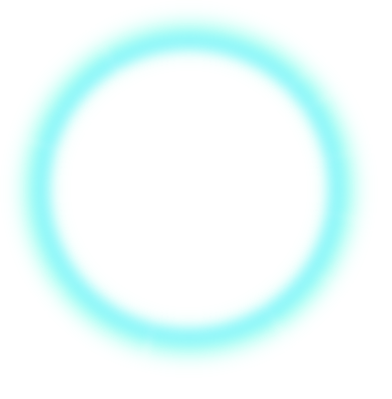
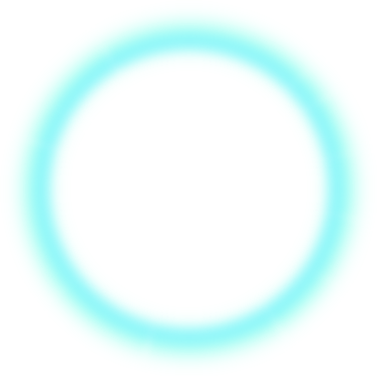
home屏幕宽度

Changed region(s): [[0.0875, 0.1755, 0.9629, 0.9654], [0.1167, 0.117, 0.4668, 0.4388]]

diff --git a/app/home.html b/app/home.html
@@ -61,9 +61,9 @@
   <div style="width:100%; height:100%; background:url(images/beijing.png) no-repeat; background-size:100% 100% ;">
     <img src="images/yangguang.png" style="position:absolute; top:60px; right:0;">
 
-    <div style="width:320px; height:60%; margin:0 auto; position:relative; ">
+    <div style=" height:60%; margin:0 auto; position:relative; top:12% " class="warn1">
       <!--<img src="images/daguang.png" style="position:absolute; top: -34px; width: 387px; left: -35px;" alt="">-->
-      <canvas id="myCanvas" style="background:url(images/guang.png) no-repeat; background-size:290px; background-position: 20px 20px; margin-top:20%" width="320" height="320"></canvas>
+      <canvas id="myCanvas" style="background:url(images/guang.png) no-repeat; /*background-color: rgba(0,0,0,.3);*/ background-size:290px; background-position: center; " ></canvas>
 
       <div style="width:120px; height:60px; overflow: hidden; position:relative;top:-220px; left:100px;" id="abc">
       </div>
@@ -92,11 +92,24 @@
 
 
 <script>
+  var daWidth=screen.width;
+  $('.warn1').width(daWidth);
+  $('#myCanvas').attr('width',daWidth);
+  $('#myCanvas').attr('height',daWidth);
+  var width_2=daWidth/2;
+  $('#abc').css({top:-220-(daWidth-320)/2,left:100+(daWidth-320)/2});//
+  $('.dongzuo').css({top:-210-(daWidth-320)/2,left:125+(daWidth-320)/2});
+
+
   $('.dongzuo').click(function(e){
     e.stopPropagation();
     $('.bigimg').show();
   });
   $(document).click(function(e){
+    e.preventDefault();
+    $('.bigimg').hide();
+  });
+  $('#myCanvas').click(function(e){
     e.preventDefault();
     $('.bigimg').hide();
   });
@@ -171,7 +184,7 @@
   var context = oCanvas.getContext("2d");
   var canvas = document.querySelector('canvas');
 
-  context.translate(160,160);
+  context.translate(width_2,width_2);
   var userid=getQueryString('userid');
   var renqun=getQueryString('renqun');
   var arr=null;
@@ -291,14 +304,14 @@
     context.save();
     context.beginPath();
     context.lineWidth = 5;
-    if(startDuan>15&&startDuan<160&&overDuan>15&&overDuan<160){
+    if(startDuan>15&&startDuan<width_2&&overDuan>15&&overDuan<width_2){
       context.strokeStyle="#022277";
-    }else if(startDuan>15&&startDuan<160&&overDuan>160){
+    }else if(startDuan>15&&startDuan<width_2&&overDuan>width_2){
       var gradient=context.createLinearGradient(0,2,0,12);
       gradient.addColorStop("0","#f4b905");
       gradient.addColorStop("1.0","#022277");
       context.strokeStyle=gradient;
-    }else if(overDuan>15&&overDuan<160&&startDuan<=15){
+    }else if(overDuan>15&&overDuan<width_2&&startDuan<=15){
       var gradient=context.createLinearGradient(0,30,0,40);
       gradient.addColorStop("0","#f4b905");
       gradient.addColorStop("1.0","#022277");
@@ -307,10 +320,10 @@
       context.strokeStyle="#f4b905";
     }
     context.arc(0,0,num+18,2*Math.PI/360*(startDuan+1),2*Math.PI/360*overDuan);
-    var y1=Math.sin(2*Math.PI/360*startDuan)*105+160
-    var y2=Math.sin(2*Math.PI/360*overDuan)*105+160
-    var x1=Math.cos(2*Math.PI/360*startDuan)*105+160
-    var x2=Math.cos(2*Math.PI/360*overDuan)*105+160
+    var y1=Math.sin(2*Math.PI/360*startDuan)*105+width_2
+    var y2=Math.sin(2*Math.PI/360*overDuan)*105+width_2
+    var x1=Math.cos(2*Math.PI/360*startDuan)*105+width_2
+    var x2=Math.cos(2*Math.PI/360*overDuan)*105+width_2
     oCanvas.addEventListener('click', function(e){
       e.stopPropagation();
       p = getEventPosition(e);
@@ -333,6 +346,10 @@
 
     }, false);
     $(document).click(function(e){
+      e.preventDefault();
+      $('.warn').hide();
+    });
+    $('#myCanvas').click(function(e){
       e.preventDefault();
       $('.warn').hide();
     });
